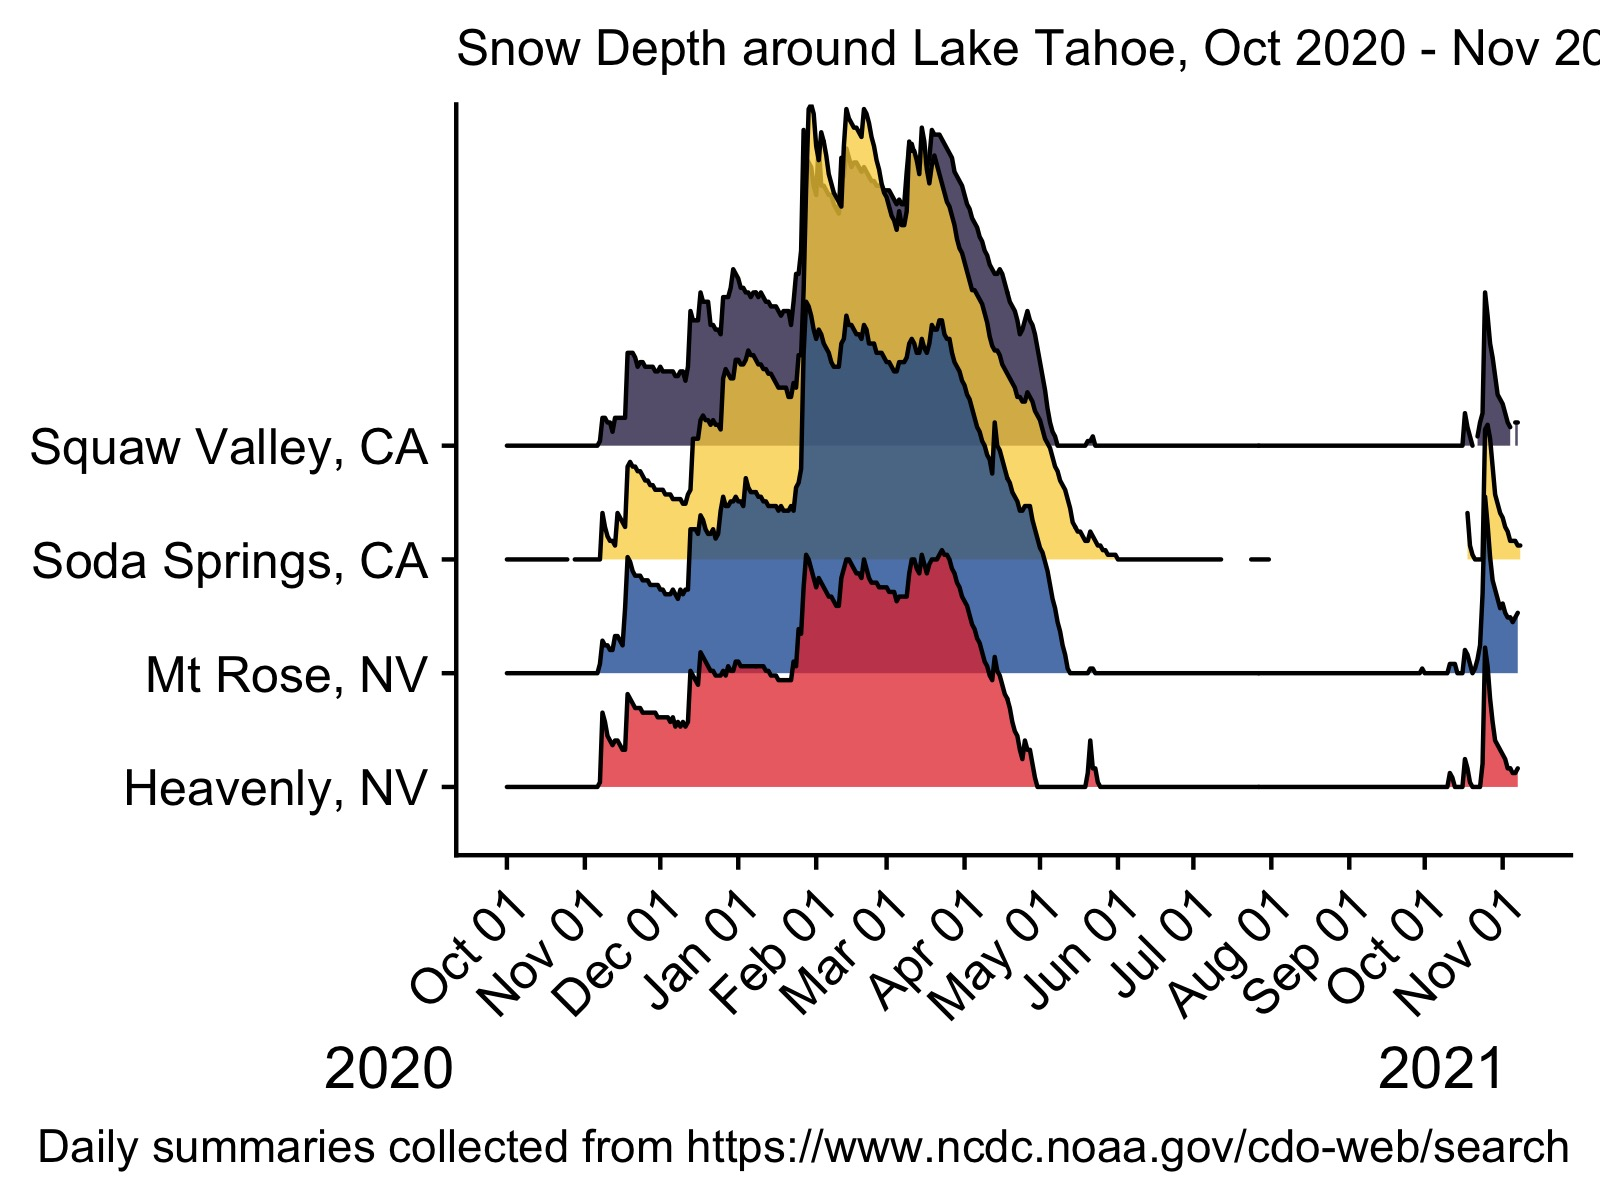
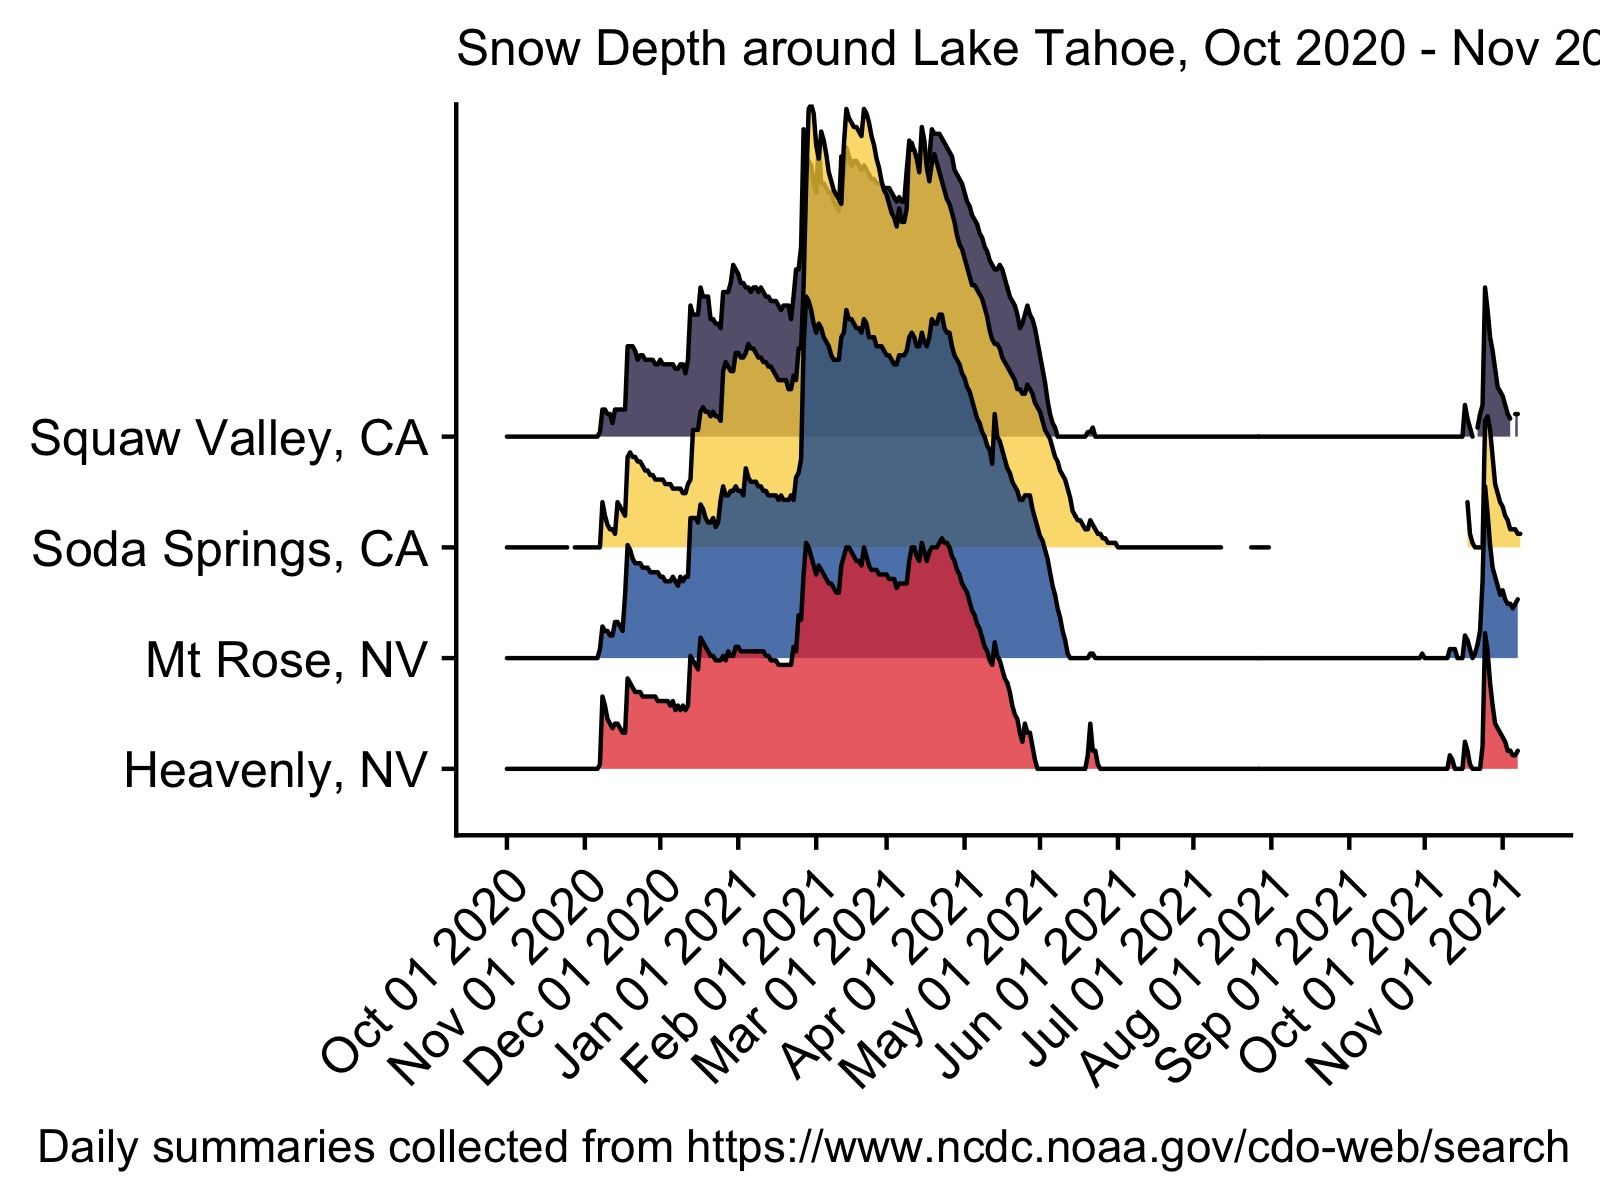
new figs

diff --git a/R/weather-ggridges.md b/R/weather-ggridges.md
@@ -185,11 +185,11 @@
             axis.text.x = element_text(angle = 45, 
                                          hjust = 1)) +
       scale_x_date(breaks = date_breaks("month"), 
-                   labels = date_format("%b %d")) +
+                   labels = date_format("%b %d %Y")) +
       labs(subtitle = "Snow Depth around Lake Tahoe, Oct 2020 - Nov 2021",
            y = NULL,
            caption = "Daily summaries collected from https://www.ncdc.noaa.gov/cdo-web/search",
-          x = "2020                                                         2021            ") 
+          x =  NULL) 
     p3
 
 ![](../images/weather-ggridges-3.png)
